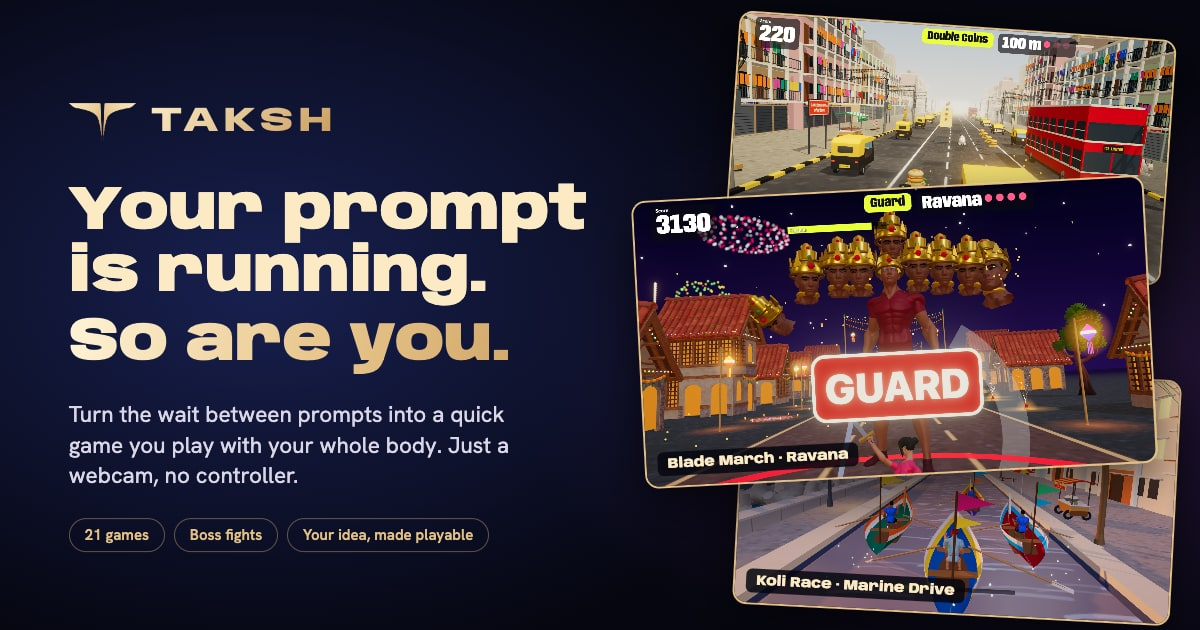
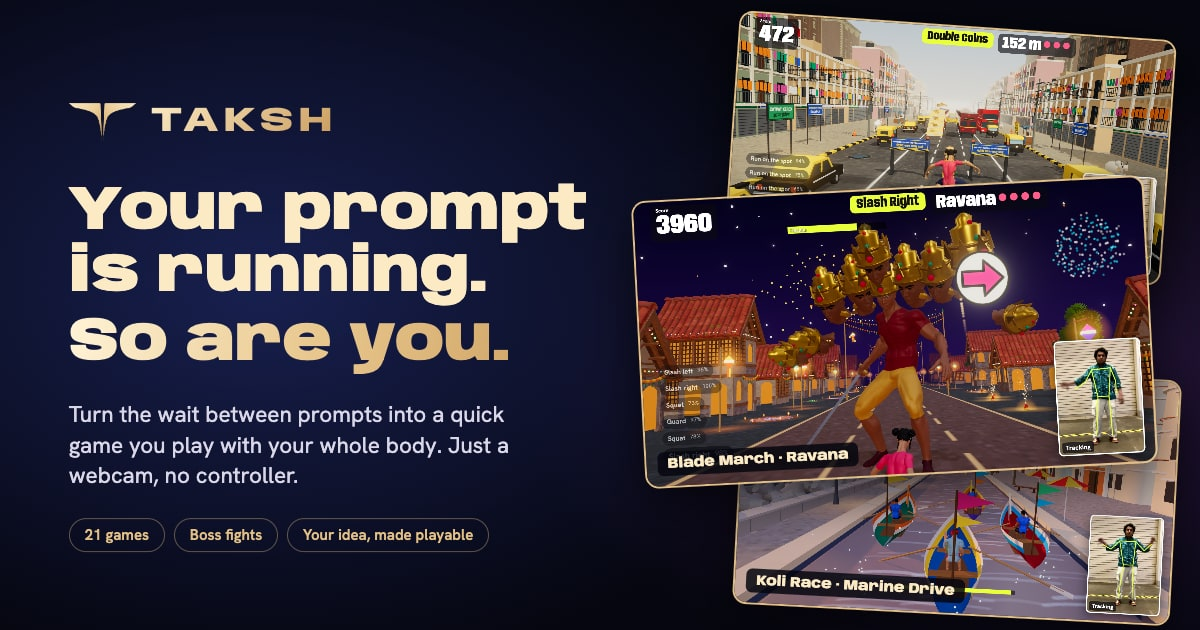
Share card shows camera tracking; add a move recorder at /debug/record
The share card now uses camera-mode shots, with the player's tracked skeleton
in the corner of each game. /debug/record films a 60-second clip of the moves
with cues on screen and a framing check, for headless camera runs.

Changed region(s): [[0.5242, 0.0, 0.9867, 0.9952], [0.5242, 0.573, 0.6167, 0.7238]]

diff --git a/src/components/MoveRecorder.jsx b/src/components/MoveRecorder.jsx
@@ -1,0 +1,136 @@
+"use client";
+
+import { useEffect, useRef, useState } from "react";
+import { PoseFeed } from "@/lib/motion/feed";
+import { LM } from "@/lib/motion/landmarks";
+import { drawSkeleton } from "@/lib/motion/overlay";
+
+// Records a webcam clip of the moves the games use, with cues on screen, so the clip can stand in
+// for a camera in headless runs (scripts/camera-play.mjs). It opens on a still stand for calibration.
+const ROUTINE = [
+  { until: 6, cue: "Stand still", detail: "Arms at your sides" },
+  { until: 16, cue: "Slash", detail: "Swipe a hand across your body, left then right" },
+  { until: 22, cue: "Guard, then duck", detail: "Fists to your chin, hold, then squat" },
+  { until: 28, cue: "Jump and step", detail: "Jump, then step left and right" },
+  { until: 38, cue: "Row", detail: "Lift both arms and pump them down hard" },
+  { until: 46, cue: "Reach up", detail: "Left hand high, right hand high, then both" },
+  { until: 54, cue: "Box", detail: "Jab left and right, then hooks" },
+  { until: 60, cue: "Run on the spot", detail: "Quick feet, high knees" },
+];
+const LENGTH_S = ROUTINE.at(-1).until;
+const COUNTDOWN_S = 3;
+const IN_VIEW = [LM.nose, LM.leftAnkle, LM.rightAnkle, LM.leftWrist, LM.rightWrist];
+
+function recordingType() {
+  return ["video/mp4;codecs=avc1", "video/mp4", "video/webm;codecs=vp9", "video/webm"].find((type) => MediaRecorder.isTypeSupported(type));
+}
+
+export default function MoveRecorder() {
+  const video = useRef(null);
+  const overlay = useRef(null);
+  const feed = useRef(null);
+  const recorder = useRef(null);
+  const [error, setError] = useState(null);
+  const [framed, setFramed] = useState(false);
+  const [phase, setPhase] = useState("setup"); // setup, countdown, recording, done
+  const [clock, setClock] = useState(0);
+  const [clip, setClip] = useState(null);
+
+  useEffect(() => {
+    const pose = new PoseFeed();
+    feed.current = pose;
+    let unsubscribe = () => {};
+    let alive = true;
+    // A feed torn down while it was still starting has to stop again once it has a stream to stop.
+    pose.start(video.current).then(() => {
+      if (!alive) return pose.stop();
+      unsubscribe = pose.subscribe(({ points, aspect }) => {
+        drawSkeleton(overlay.current, points, aspect);
+        setFramed(Boolean(points) && IN_VIEW.every((index) => points[index].v > 0.55));
+      });
+    }).catch((cause) => {
+      pose.stop();
+      if (alive) setError(cause.message);
+    });
+    return () => {
+      alive = false;
+      unsubscribe();
+      pose.stop();
+    };
+  }, []);
+
+  useEffect(() => {
+    if (phase !== "countdown" && phase !== "recording") return;
+    const started = performance.now();
+    const timer = setInterval(() => setClock((performance.now() - started) / 1000), 100);
+    return () => clearInterval(timer);
+  }, [phase]);
+
+  useEffect(() => {
+    if (phase === "countdown" && clock >= COUNTDOWN_S) {
+      const type = recordingType();
+      const chunks = [];
+      const media = new MediaRecorder(feed.current.stream, { mimeType: type, videoBitsPerSecond: 8e6 });
+      media.ondataavailable = (event) => chunks.push(event.data);
+      media.onstop = () => {
+        const blob = new Blob(chunks, { type });
+        setClip({ url: URL.createObjectURL(blob), name: `taksh-moves.${type.startsWith("video/mp4") ? "mp4" : "webm"}` });
+        setPhase("done");
+      };
+      media.start(1000);
+      recorder.current = media;
+      setClock(0);
+      setPhase("recording");
+    }
+    if (phase === "recording" && clock >= LENGTH_S) recorder.current?.state === "recording" && recorder.current.stop();
+  }, [phase, clock]);
+
+  const step = ROUTINE.find((item) => clock < item.until) ?? ROUTINE.at(-1);
+  const next = ROUTINE[ROUTINE.indexOf(step) + 1];
+  const start = () => {
+    setClip(null);
+    setClock(0);
+    setPhase("countdown");
+  };
+
+  return (
+    <main style={{ position: "fixed", inset: 0, background: "#05060f", color: "#fff", fontFamily: "var(--font-body)" }}>
+      <div style={{ position: "absolute", inset: 0 }}>
+        <video ref={video} playsInline muted style={{ width: "100%", height: "100%", objectFit: "cover", transform: "scaleX(-1)" }} />
+        <canvas ref={overlay} style={{ position: "absolute", inset: 0, width: "100%", height: "100%" }} />
+      </div>
+
+      <div style={{ position: "absolute", left: 24, top: 24, display: "flex", gap: 12, alignItems: "center" }}>
+        <span style={{ padding: "6px 14px", borderRadius: 999, fontWeight: 700, background: framed ? "#21c48d" : "#ff4f6d" }}>
+          {framed ? "Head to feet in view" : "Step back until your head, hands and feet are in view"}
+        </span>
+        {phase === "recording" && <span style={{ padding: "6px 14px", borderRadius: 999, fontWeight: 700, background: "#e00" }}>● REC {Math.floor(clock)}s / {LENGTH_S}s</span>}
+      </div>
+
+      {error && <p style={{ position: "absolute", top: 80, left: 24, background: "#ff4f6d", padding: 12, borderRadius: 8 }}>Camera failed: {error}</p>}
+
+      <div style={{ position: "absolute", left: 0, right: 0, bottom: 32, textAlign: "center", textShadow: "0 2px 12px #000" }}>
+        {phase === "setup" && (
+          <button type="button" className="button button--go" onClick={start} style={{ fontSize: "1.4rem" }}>Start recording ({LENGTH_S}s)</button>
+        )}
+        {phase === "countdown" && <div style={{ fontFamily: "var(--font-display)", fontSize: "9rem", fontWeight: 900 }}>{Math.max(1, Math.ceil(COUNTDOWN_S - clock))}</div>}
+        {phase === "recording" && (
+          <>
+            <div style={{ fontFamily: "var(--font-display)", fontSize: "5rem", fontWeight: 900, lineHeight: 1 }}>{step.cue}</div>
+            <div style={{ fontSize: "1.6rem", marginTop: 8 }}>{step.detail} · {Math.ceil(step.until - clock)}s</div>
+            {next && <div style={{ fontSize: "1.1rem", marginTop: 8, opacity: 0.75 }}>Next: {next.cue}</div>}
+            <div style={{ margin: "16px auto 0", width: "60%", height: 8, background: "#fff3", borderRadius: 4 }}>
+              <div style={{ width: `${(clock / LENGTH_S) * 100}%`, height: "100%", background: "#e9ff3a", borderRadius: 4 }} />
+            </div>
+          </>
+        )}
+        {phase === "done" && clip && (
+          <div style={{ display: "flex", gap: 16, justifyContent: "center" }}>
+            <a className="button button--go" href={clip.url} download={clip.name} style={{ fontSize: "1.4rem" }}>Save {clip.name}</a>
+            <button type="button" className="button" onClick={start} style={{ fontSize: "1.4rem" }}>Retake</button>
+          </div>
+        )}
+      </div>
+    </main>
+  );
+}

diff --git a/src/app/debug/record/page.js b/src/app/debug/record/page.js
@@ -1,0 +1,7 @@
+import MoveRecorder from "@/components/MoveRecorder";
+
+export const metadata = { title: "Record moves" };
+
+export default function Page() {
+  return <MoveRecorder />;
+}

diff --git a/README.md b/README.md
@@ -11,7 +11,7 @@ cp .env.example .env.local   # add OG_API_KEY (or ANTHROPIC_API_KEY) for real ge
 npm run build && npm start   # or: npm run dev
 ```
 
-Open http://localhost:3000. The input lab is at `/debug`, and the hand cursor test at `/debug/cursor`. `/debug/rig` shows the characters, and `/debug/stage?template=hop&world=moon&style=toon` plays any combination with its bot, and `&tune=waves:1,boss:1` sets tuning, so a boss can be looked at straight away.
+Open http://localhost:3000. The input lab is at `/debug`, and the hand cursor test at `/debug/cursor`. `/debug/rig` shows the characters, and `/debug/stage?template=hop&world=moon&style=toon` plays any combination with its bot, and `&tune=waves:1,boss:1` sets tuning, so a boss can be looked at straight away. `/debug/record` records a 60-second webcam clip of the moves, with cues on screen, to stand in for a camera in `scripts/camera-play.mjs` (convert it with `ffmpeg -i taksh-moves.mp4 -q:v 4 -f mjpeg clip.mjpeg`).
 
 Without a key the app runs on fixtures and says so on screen. Fixtures match keywords against the game templates, so they exercise the runtime and UI but show nothing about how well a model reads an idea.
 
